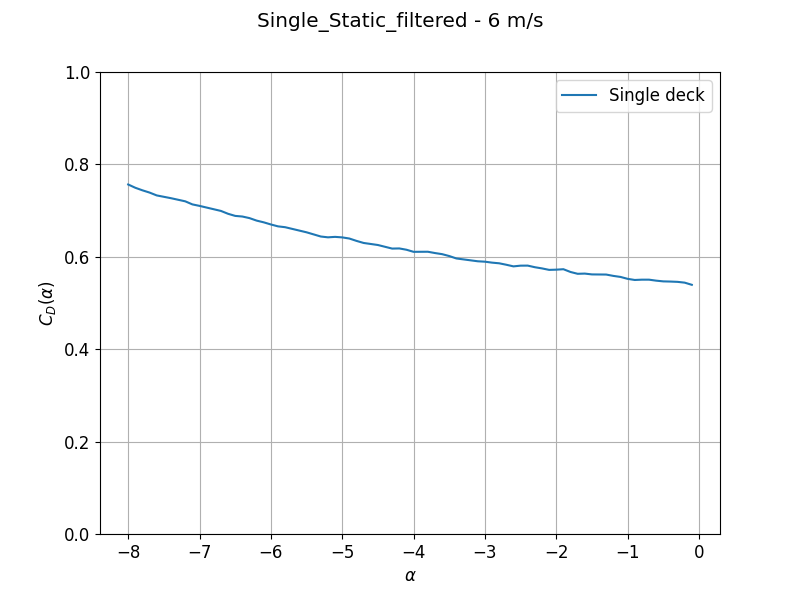
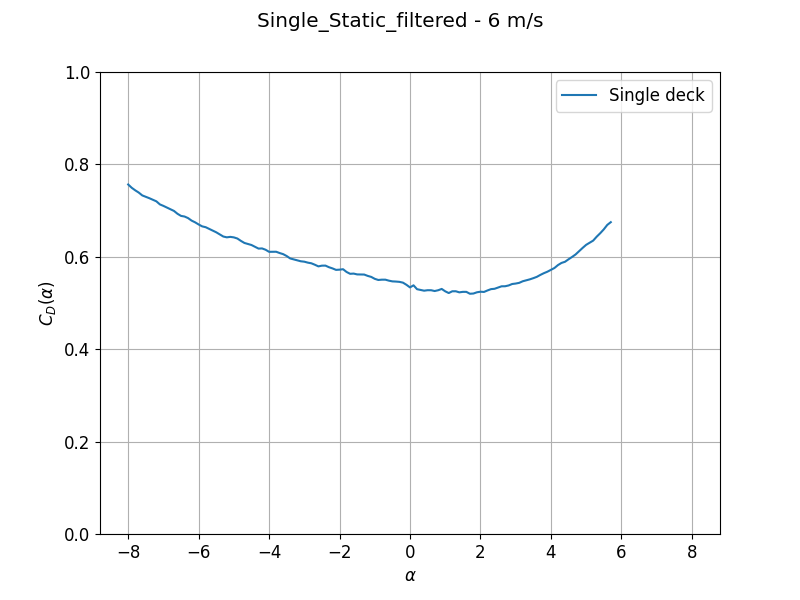
debugge

diff --git a/w3tp/w3t/_scoff.py b/w3tp/w3t/_scoff.py
@@ -1535,7 +1535,7 @@ def filter_by_reference(static_coeff_1, static_coeff_2, static_coeff_3=None, thr
         alpha = np.round(static_coeff.pitch_motion * 360 / (2 * np.pi), 1)
         return alpha, static_coeff.drag_coeff.copy(), static_coeff.lift_coeff.copy(), static_coeff.pitch_coeff.copy()
     
-    def remove_after_jump(alpha_vals, coeff_array, threshold_jump=0.08):
+    def remove_after_jump(alpha_vals, coeff_array, threshold_jump=0.12):
         alpha_vals_rounded = np.round(alpha_vals, 1)
         unique_alpha = np.sort(np.unique(alpha_vals_rounded))
 
